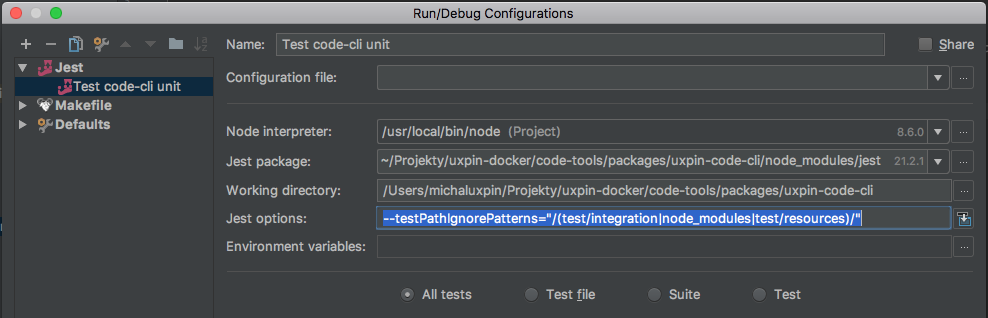
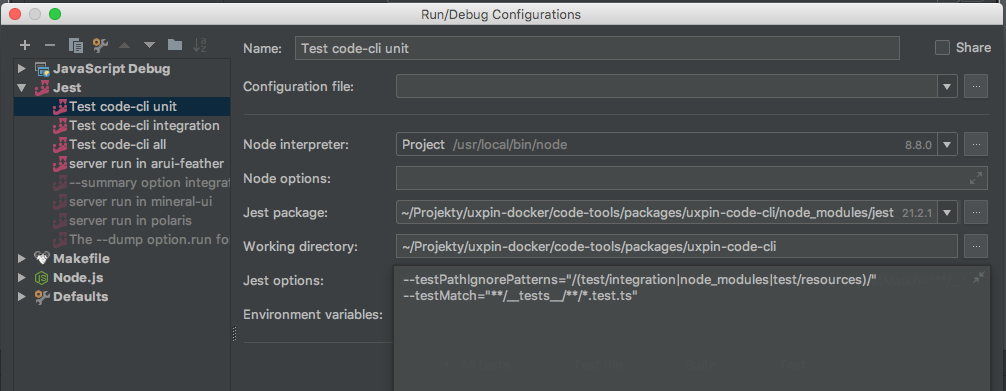
Moved unit tests to the `src` directory structure

diff --git a/packages/uxpin-code-cli/src/steps/serialization/component/implementation/javascript/__tests__/serializeJSComponent.test.ts b/packages/uxpin-code-cli/src/steps/serialization/component/implementation/javascript/__tests__/serializeJSComponent.test.ts
@@ -1,8 +1,8 @@
-import { WarningDetails } from '../../../../../../../src/common/warning/WarningDetails';
-import { ComponentImplementationInfo } from '../../../../../../../src/steps/discovery/component/ComponentInfo';
-import { ComponentMetadata } from '../../../../../../../src/steps/serialization/component/ComponentDefinition';
-import { serializeJSComponent } from '../../../../../../../src/steps/serialization/component/implementation/javascript/serializeJSComponent';
-import { getJavaScriptComponentPath } from '../../../../../../utils/resources/getExampleComponentPath';
+import { getJavaScriptComponentPath } from '../../../../../../../test/utils/resources/getExampleComponentPath';
+import { WarningDetails } from '../../../../../../common/warning/WarningDetails';
+import { ComponentImplementationInfo } from '../../../../../discovery/component/ComponentInfo';
+import { ComponentMetadata } from '../../../ComponentDefinition';
+import { serializeJSComponent } from '../serializeJSComponent';
 
 describe('serializeJSComponentProps', () => {
   describe('providing array of objects describing all properties of the JavaScript component', () => {

diff --git a/packages/uxpin-code-cli/src/steps/serialization/component/implementation/typescript/__tests__/serializeTSComponent.test.ts b/packages/uxpin-code-cli/src/steps/serialization/component/implementation/typescript/__tests__/serializeTSComponent.test.ts
@@ -1,7 +1,7 @@
-import { ComponentImplementationInfo } from '../../../../../../../src/steps/discovery/component/ComponentInfo';
-import { ComponentMetadata } from '../../../../../../../src/steps/serialization/component/ComponentDefinition';
-import { serializeTSComponent } from '../../../../../../../src/steps/serialization/component/implementation/typescript/serializeTSComponent';
-import { getTypeScriptComponentPath } from '../../../../../../utils/resources/getExampleComponentPath';
+import { getTypeScriptComponentPath } from '../../../../../../../test/utils/resources/getExampleComponentPath';
+import { ComponentImplementationInfo } from '../../../../../discovery/component/ComponentInfo';
+import { ComponentMetadata } from '../../../ComponentDefinition';
+import { serializeTSComponent } from '../serializeTSComponent';
 
 describe('serializeTSComponent', () => {
   describe('providing array of objects describing all properties of the TypeScript component', () => {

diff --git a/packages/uxpin-code-cli/src/steps/building/library/__tests__/getFileString.test.ts b/packages/uxpin-code-cli/src/steps/building/library/__tests__/getFileString.test.ts
@@ -1,11 +1,11 @@
-import { getFileString } from '../../../../../src/steps/building/library/getFileString';
-import { ComponentImplementationInfo } from '../../../../../src/steps/discovery/component/ComponentInfo';
-import { ComponentDefinition } from '../../../../../src/steps/serialization/component/ComponentDefinition';
+import { ComponentImplementationInfo } from '../../../discovery/component/ComponentInfo';
+import { ComponentDefinition } from '../../../serialization/component/ComponentDefinition';
+import { getFileString } from '../getFileString';
 
 describe('getFileString', () => {
 
   const commonImplementation:ComponentImplementationInfo = { path: '', framework: 'reactjs', lang: 'javascript' };
-  const commonProps:Pick<ComponentDefinition, 'properties'|'documentation'|'presets'> = {
+  const commonProps:Pick<ComponentDefinition, 'properties' | 'documentation' | 'presets'> = {
     documentation: { examples: [] },
     presets: [],
     properties: [],

diff --git a/packages/uxpin-code-cli/src/steps/serialization/component/implementation/__tests__/getComponentMetadata.test.ts b/packages/uxpin-code-cli/src/steps/serialization/component/implementation/__tests__/getComponentMetadata.test.ts
@@ -1,10 +1,10 @@
-import { ComponentImplementationInfo } from '../../../../../../src/steps/discovery/component/ComponentInfo';
-import { ComponentMetadata } from '../../../../../../src/steps/serialization/component/ComponentDefinition';
-import { getComponentMetadata } from '../../../../../../src/steps/serialization/component/implementation/getComponentMetadata';
 import {
   getJavaScriptComponentPath,
   getTypeScriptComponentPath,
-} from '../../../../../utils/resources/getExampleComponentPath';
+} from '../../../../../../test/utils/resources/getExampleComponentPath';
+import { ComponentImplementationInfo } from '../../../../discovery/component/ComponentInfo';
+import { ComponentMetadata } from '../../ComponentDefinition';
+import { getComponentMetadata } from '../getComponentMetadata';
 
 describe('getComponentMetadata – integration', () => {
   describe('providing array of objects describing all properties of the component', () => {

diff --git a/packages/uxpin-code-cli/src/steps/discovery/component/__tests__/getComponentInfo.test.ts b/packages/uxpin-code-cli/src/steps/discovery/component/__tests__/getComponentInfo.test.ts
@@ -1,8 +1,8 @@
 import { join } from 'path';
-import { ComponentInfo } from '../../../../../src/steps/discovery/component/ComponentInfo';
-import { getComponentInfo } from '../../../../../src/steps/discovery/component/getComponentInfo';
-import { ProjectPaths } from '../../../../../src/steps/discovery/paths/ProjectPaths';
-import { testDirPath } from '../../../../utils/resources/testDirPath';
+import { testDirPath } from '../../../../../test/utils/resources/testDirPath';
+import { ProjectPaths } from '../../paths/ProjectPaths';
+import { ComponentInfo } from '../ComponentInfo';
+import { getComponentInfo } from '../getComponentInfo';
 
 describe('getComponentInfo', () => {
   describe('getting object describing component basics for given directory path and expected filename', () => {

diff --git a/packages/uxpin-code-cli/src/steps/discovery/component/implementation/__tests__/getImplementationInfo.test.ts b/packages/uxpin-code-cli/src/steps/discovery/component/implementation/__tests__/getImplementationInfo.test.ts
@@ -1,7 +1,7 @@
 import { resolve } from 'path';
-import { ComponentImplementationInfo } from '../../../../../../src/steps/discovery/component/ComponentInfo';
-import { ComponentPaths } from '../../../../../../src/steps/discovery/component/ComponentPaths';
-import { getImplementationInfo } from '../../../../../../src/steps/discovery/component/implementation/getImplementationInfo';
+import { ComponentImplementationInfo } from '../../ComponentInfo';
+import { ComponentPaths } from '../../ComponentPaths';
+import { getImplementationInfo } from '../getImplementationInfo';
 
 describe('getImplementationInfo', () => {
   describe('obtaining information about the implementation of a component in the given directory', () => {

diff --git a/packages/uxpin-code-cli/src/steps/discovery/component/documentation/__tests__/getDocumentationInfo.test.ts b/packages/uxpin-code-cli/src/steps/discovery/component/documentation/__tests__/getDocumentationInfo.test.ts
@@ -1,7 +1,7 @@
 import { resolve } from 'path';
-import { ComponentDocumenationInfo } from '../../../../../../src/steps/discovery/component/ComponentInfo';
-import { ComponentPaths } from '../../../../../../src/steps/discovery/component/ComponentPaths';
-import { getDocumentationInfo } from '../../../../../../src/steps/discovery/component/documentation/getDocumentationInfo';
+import { ComponentDocumenationInfo } from '../../ComponentInfo';
+import { ComponentPaths } from '../../ComponentPaths';
+import { getDocumentationInfo } from '../getDocumentationInfo';
 
 describe('getDocumentationInfo', () => {
   describe('obtaining info about the documentation of a component in the given directory', () => {

diff --git a/packages/uxpin-code-cli/src/steps/serialization/component/examples/__tests__/serializeExamples.test.ts b/packages/uxpin-code-cli/src/steps/serialization/component/examples/__tests__/serializeExamples.test.ts
@@ -1,10 +1,10 @@
 import { resolve } from 'path';
 
-import { ComponentExample } from '../../../../../../src/steps/serialization/component/examples/ComponentExample';
+import { ComponentExample } from '../ComponentExample';
 import {
   ExamplesSerializationResult,
-} from '../../../../../../src/steps/serialization/component/examples/ExamplesSerializationResult';
-import { serializeExamples } from '../../../../../../src/steps/serialization/component/examples/serializeExamples';
+} from '../ExamplesSerializationResult';
+import { serializeExamples } from '../serializeExamples';
 
 describe('getExamples', () => {
   describe('getting list of examples', () => {

diff --git a/packages/uxpin-code-cli/src/steps/serialization/component/implementation/javascript/type/react/structure/oneOf/__tests__/convertOneOfTypeStructure.test.ts b/packages/uxpin-code-cli/src/steps/serialization/component/implementation/javascript/type/react/structure/oneOf/__tests__/convertOneOfTypeStructure.test.ts
@@ -1,5 +1,5 @@
-import { UnionTypeStructure } from '../../../../../../../../../../src/steps/serialization/component/implementation/ComponentPropertyDefinition';
-import { convertOneOfTypeStructure } from '../../../../../../../../../../src/steps/serialization/component/implementation/javascript/type/react/structure/oneOf/convertOneOfTypeStructure';
+import { UnionTypeStructure } from '../../../../../../ComponentPropertyDefinition';
+import { convertOneOfTypeStructure } from '../convertOneOfTypeStructure';
 
 describe('convertOneOfTypeStructure', () => {
   describe('converting react-docgen enum type structure to common format', () => {

diff --git a/packages/uxpin-code-cli/src/common/warning/__tests__/joinWarningLists.test.ts b/packages/uxpin-code-cli/src/common/warning/__tests__/joinWarningLists.test.ts
@@ -1,5 +1,5 @@
-import { joinWarningLists } from '../../../../src/common/warning/joinWarningLists';
-import { WarningDetails } from '../../../../src/common/warning/WarningDetails';
+import { joinWarningLists } from '../joinWarningLists';
+import { WarningDetails } from '../WarningDetails';
 
 describe('joinWarningLists', () => {
   describe('joining list of lists of warnings into a flat list', () => {

diff --git a/packages/uxpin-code-cli/src/steps/serialization/component/name/__tests__/getComponentClassName.test.ts b/packages/uxpin-code-cli/src/steps/serialization/component/name/__tests__/getComponentClassName.test.ts
@@ -1,4 +1,4 @@
-import { getComponentClassName } from '../../../../../src/steps/serialization/component/name/getComponentClassName';
+import { getComponentClassName } from '../getComponentClassName';
 
 describe('getComponentClassName', () => {
   it('returns className for CamelCase component name', () => {

diff --git a/packages/uxpin-code-cli/src/steps/discovery/component/presets/__tests__/filterPresets.test.ts b/packages/uxpin-code-cli/src/steps/discovery/component/presets/__tests__/filterPresets.test.ts
@@ -1,4 +1,4 @@
-import { filterPresets } from '../../../../../../src/steps/discovery/component/presets/filterPresets';
+import { filterPresets } from '../filterPresets';
 
 describe('filterPresets', () => {
   it('should return paths that meet preset filename pattern only', () => {
